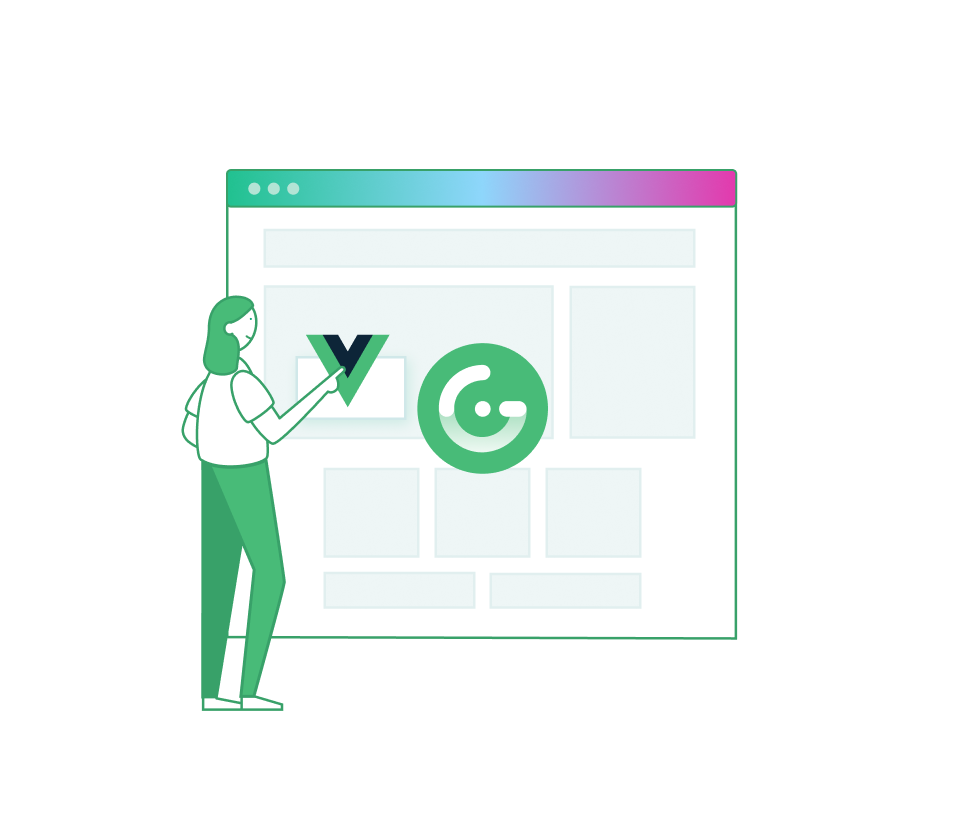
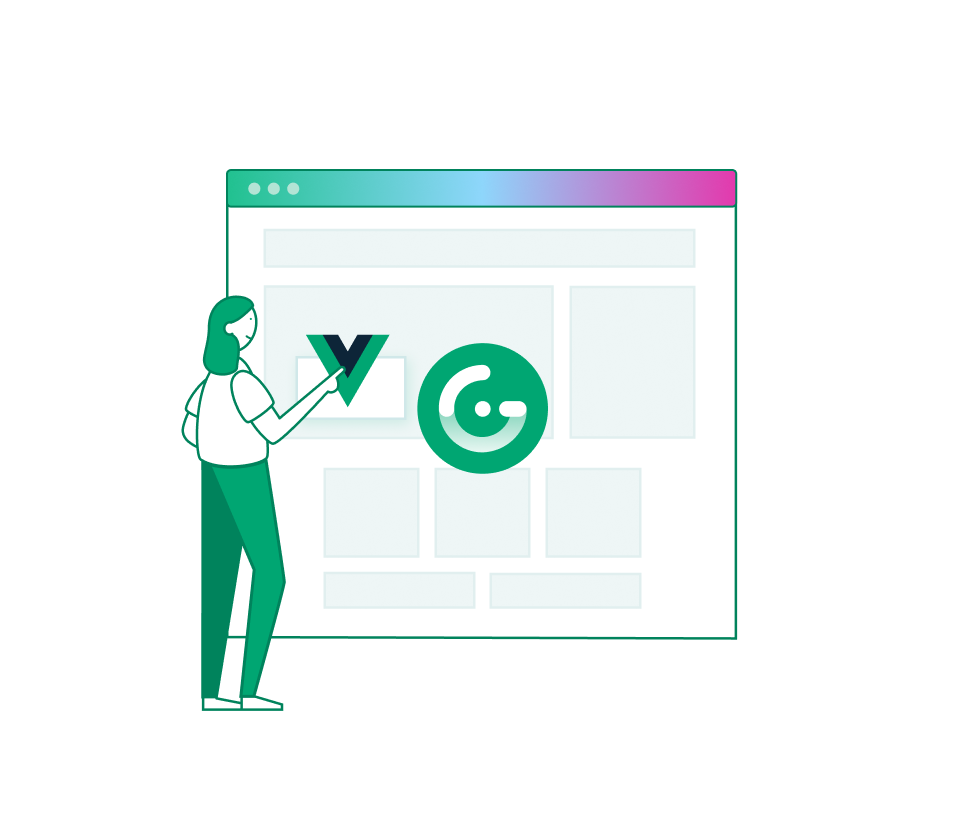
change colors back

diff --git a/src/pages/Logo.vue b/src/pages/Logo.vue
@@ -63,11 +63,11 @@
    	 <div class="colors mb">
 
    	 	<div class="colors__primary">
-   	 		<span>#48BB78</span>
+   	 		<span>#00A672</span>
    	 	</div>
 
    	 	<div class="colors__secondary">
-   	 		<span>#38A169</span>
+   	 		<span>#00835C</span>
    	 	</div>
 
       <div class="colors__dark">

diff --git a/src/assets/style/vars.scss b/src/assets/style/vars.scss
@@ -1,6 +1,6 @@
 :root {
-  --primary-color: #48BB78;
-  --primary-color-dark: #38A169;
+  --primary-color: #00A672;
+  --primary-color-dark: #00835C;
   --header-height: 58px;
   --light-bg: #FFF;
   --light-bg-transparent: rgba(255,255,255,.95);
